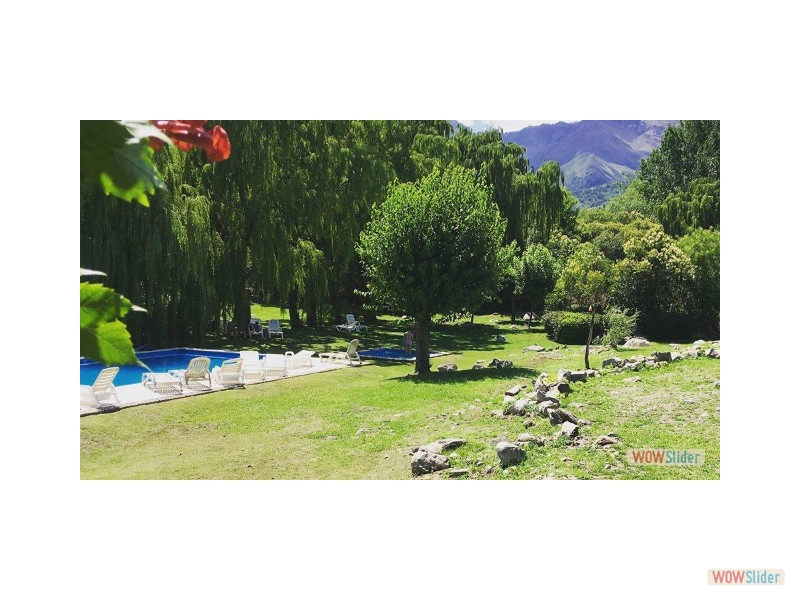
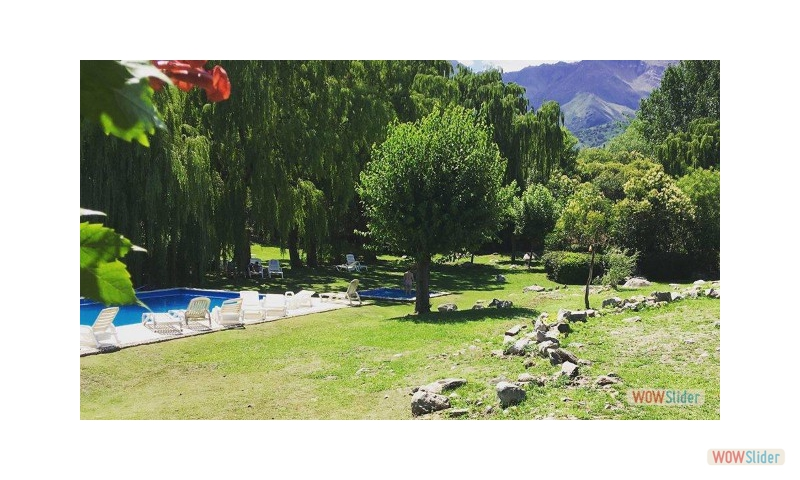
full page

diff --git a/index-howto.html b/index-howto.html
@@ -107,21 +107,21 @@
 <div id="wowslider-container1">
 <div class="ws_images"><ul>
 		<li><img src="data1/images/1.jpg" alt="1" title="1" id="wows1_0"/></li>
-		<li><img src="data1/images/2.jpg" alt="2" title="2" id="wows1_1"/></li>
-		<li><img src="data1/images/3.jpg" alt="3" title="3" id="wows1_2"/></li>
-		<li><img src="data1/images/4.jpg" alt="4" title="4" id="wows1_3"/></li>
-		<li><img src="data1/images/5.jpg" alt="5" title="5" id="wows1_4"/></li>
-		<li><a href="http://wowslider.net"><img src="data1/images/6.jpg" alt="bootstrap slider" title="6" id="wows1_5"/></a></li>
-		<li><img src="data1/images/7.jpg" alt="7" title="7" id="wows1_6"/></li>
+		<li><img src="data1/images/3.jpg" alt="3" title="3" id="wows1_1"/></li>
+		<li><img src="data1/images/4.jpg" alt="4" title="4" id="wows1_2"/></li>
+		<li><img src="data1/images/5.jpg" alt="5" title="5" id="wows1_3"/></li>
+		<li><img src="data1/images/6.jpg" alt="6" title="6" id="wows1_4"/></li>
+		<li><a href="http://wowslider.net"><img src="data1/images/7.jpg" alt="bootstrap carousel example" title="7" id="wows1_5"/></a></li>
+		<li><img src="data1/images/foto10__copy_5.jpg" alt="foto10 - Copy (5)" title="foto10 - Copy (5)" id="wows1_6"/></li>
 	</ul></div>
 	<div class="ws_bullets"><div>
 		<a href="#" title="1"><span>1</span></a>
-		<a href="#" title="2"><span>2</span></a>
-		<a href="#" title="3"><span>3</span></a>
-		<a href="#" title="4"><span>4</span></a>
-		<a href="#" title="5"><span>5</span></a>
-		<a href="#" title="6"><span>6</span></a>
-		<a href="#" title="7"><span>7</span></a>
+		<a href="#" title="3"><span>2</span></a>
+		<a href="#" title="4"><span>3</span></a>
+		<a href="#" title="5"><span>4</span></a>
+		<a href="#" title="6"><span>5</span></a>
+		<a href="#" title="7"><span>6</span></a>
+		<a href="#" title="foto10 - Copy (5)"><span>7</span></a>
 	</div></div><div class="ws_script" style="position:absolute;left:-99%"><a href="http://wowslider.net">slideshow javascript</a> by WOWSlider.com v8.8</div>
 <div class="ws_shadow"></div>
 </div>	
@@ -156,21 +156,21 @@
 &lt;div id=&quot;wowslider-container1&quot;&gt;
 &lt;div class=&quot;ws_images&quot;&gt;&lt;ul&gt;
 		&lt;li&gt;&lt;img src=&quot;data1/images/1.jpg&quot; alt=&quot;1&quot; title=&quot;1&quot; id=&quot;wows1_0&quot;/&gt;&lt;/li&gt;
-		&lt;li&gt;&lt;img src=&quot;data1/images/2.jpg&quot; alt=&quot;2&quot; title=&quot;2&quot; id=&quot;wows1_1&quot;/&gt;&lt;/li&gt;
-		&lt;li&gt;&lt;img src=&quot;data1/images/3.jpg&quot; alt=&quot;3&quot; title=&quot;3&quot; id=&quot;wows1_2&quot;/&gt;&lt;/li&gt;
-		&lt;li&gt;&lt;img src=&quot;data1/images/4.jpg&quot; alt=&quot;4&quot; title=&quot;4&quot; id=&quot;wows1_3&quot;/&gt;&lt;/li&gt;
-		&lt;li&gt;&lt;img src=&quot;data1/images/5.jpg&quot; alt=&quot;5&quot; title=&quot;5&quot; id=&quot;wows1_4&quot;/&gt;&lt;/li&gt;
-		&lt;li&gt;&lt;a href=&quot;http://wowslider.net&quot;&gt;&lt;img src=&quot;data1/images/6.jpg&quot; alt=&quot;bootstrap slider&quot; title=&quot;6&quot; id=&quot;wows1_5&quot;/&gt;&lt;/a&gt;&lt;/li&gt;
-		&lt;li&gt;&lt;img src=&quot;data1/images/7.jpg&quot; alt=&quot;7&quot; title=&quot;7&quot; id=&quot;wows1_6&quot;/&gt;&lt;/li&gt;
+		&lt;li&gt;&lt;img src=&quot;data1/images/3.jpg&quot; alt=&quot;3&quot; title=&quot;3&quot; id=&quot;wows1_1&quot;/&gt;&lt;/li&gt;
+		&lt;li&gt;&lt;img src=&quot;data1/images/4.jpg&quot; alt=&quot;4&quot; title=&quot;4&quot; id=&quot;wows1_2&quot;/&gt;&lt;/li&gt;
+		&lt;li&gt;&lt;img src=&quot;data1/images/5.jpg&quot; alt=&quot;5&quot; title=&quot;5&quot; id=&quot;wows1_3&quot;/&gt;&lt;/li&gt;
+		&lt;li&gt;&lt;img src=&quot;data1/images/6.jpg&quot; alt=&quot;6&quot; title=&quot;6&quot; id=&quot;wows1_4&quot;/&gt;&lt;/li&gt;
+		&lt;li&gt;&lt;a href=&quot;http://wowslider.net&quot;&gt;&lt;img src=&quot;data1/images/7.jpg&quot; alt=&quot;bootstrap carousel example&quot; title=&quot;7&quot; id=&quot;wows1_5&quot;/&gt;&lt;/a&gt;&lt;/li&gt;
+		&lt;li&gt;&lt;img src=&quot;data1/images/foto10__copy_5.jpg&quot; alt=&quot;foto10 - Copy (5)&quot; title=&quot;foto10 - Copy (5)&quot; id=&quot;wows1_6&quot;/&gt;&lt;/li&gt;
 	&lt;/ul&gt;&lt;/div&gt;
 	&lt;div class=&quot;ws_bullets&quot;&gt;&lt;div&gt;
 		&lt;a href=&quot;#&quot; title=&quot;1&quot;&gt;&lt;span&gt;1&lt;/span&gt;&lt;/a&gt;
-		&lt;a href=&quot;#&quot; title=&quot;2&quot;&gt;&lt;span&gt;2&lt;/span&gt;&lt;/a&gt;
-		&lt;a href=&quot;#&quot; title=&quot;3&quot;&gt;&lt;span&gt;3&lt;/span&gt;&lt;/a&gt;
-		&lt;a href=&quot;#&quot; title=&quot;4&quot;&gt;&lt;span&gt;4&lt;/span&gt;&lt;/a&gt;
-		&lt;a href=&quot;#&quot; title=&quot;5&quot;&gt;&lt;span&gt;5&lt;/span&gt;&lt;/a&gt;
-		&lt;a href=&quot;#&quot; title=&quot;6&quot;&gt;&lt;span&gt;6&lt;/span&gt;&lt;/a&gt;
-		&lt;a href=&quot;#&quot; title=&quot;7&quot;&gt;&lt;span&gt;7&lt;/span&gt;&lt;/a&gt;
+		&lt;a href=&quot;#&quot; title=&quot;3&quot;&gt;&lt;span&gt;2&lt;/span&gt;&lt;/a&gt;
+		&lt;a href=&quot;#&quot; title=&quot;4&quot;&gt;&lt;span&gt;3&lt;/span&gt;&lt;/a&gt;
+		&lt;a href=&quot;#&quot; title=&quot;5&quot;&gt;&lt;span&gt;4&lt;/span&gt;&lt;/a&gt;
+		&lt;a href=&quot;#&quot; title=&quot;6&quot;&gt;&lt;span&gt;5&lt;/span&gt;&lt;/a&gt;
+		&lt;a href=&quot;#&quot; title=&quot;7&quot;&gt;&lt;span&gt;6&lt;/span&gt;&lt;/a&gt;
+		&lt;a href=&quot;#&quot; title=&quot;foto10 - Copy (5)&quot;&gt;&lt;span&gt;7&lt;/span&gt;&lt;/a&gt;
 	&lt;/div&gt;&lt;/div&gt;&lt;div class=&quot;ws_script&quot; style=&quot;position:absolute;left:-99%&quot;&gt;&lt;a href=&quot;http://wowslider.net&quot;&gt;slideshow javascript&lt;/a&gt; by WOWSlider.com v8.8&lt;/div&gt;
 &lt;div class=&quot;ws_shadow&quot;&gt;&lt;/div&gt;
 &lt;/div&gt;	

diff --git a/index.html b/index.html
@@ -17,21 +17,21 @@
 	<div id="wowslider-container1">
 	<div class="ws_images"><ul>
 		<li><img src="data1/images/1.jpg" alt="1" title="1" id="wows1_0"/></li>
-		<li><img src="data1/images/2.jpg" alt="2" title="2" id="wows1_1"/></li>
-		<li><img src="data1/images/3.jpg" alt="3" title="3" id="wows1_2"/></li>
-		<li><img src="data1/images/4.jpg" alt="4" title="4" id="wows1_3"/></li>
-		<li><img src="data1/images/5.jpg" alt="5" title="5" id="wows1_4"/></li>
-		<li><a href="http://wowslider.net"><img src="data1/images/6.jpg" alt="bootstrap slider" title="6" id="wows1_5"/></a></li>
-		<li><img src="data1/images/7.jpg" alt="7" title="7" id="wows1_6"/></li>
+		<li><img src="data1/images/3.jpg" alt="3" title="3" id="wows1_1"/></li>
+		<li><img src="data1/images/4.jpg" alt="4" title="4" id="wows1_2"/></li>
+		<li><img src="data1/images/5.jpg" alt="5" title="5" id="wows1_3"/></li>
+		<li><img src="data1/images/6.jpg" alt="6" title="6" id="wows1_4"/></li>
+		<li><a href="http://wowslider.net"><img src="data1/images/7.jpg" alt="bootstrap carousel example" title="7" id="wows1_5"/></a></li>
+		<li><img src="data1/images/foto10__copy_5.jpg" alt="foto10 - Copy (5)" title="foto10 - Copy (5)" id="wows1_6"/></li>
 	</ul></div>
 	<div class="ws_bullets"><div>
 		<a href="#" title="1"><span>1</span></a>
-		<a href="#" title="2"><span>2</span></a>
-		<a href="#" title="3"><span>3</span></a>
-		<a href="#" title="4"><span>4</span></a>
-		<a href="#" title="5"><span>5</span></a>
-		<a href="#" title="6"><span>6</span></a>
-		<a href="#" title="7"><span>7</span></a>
+		<a href="#" title="3"><span>2</span></a>
+		<a href="#" title="4"><span>3</span></a>
+		<a href="#" title="5"><span>4</span></a>
+		<a href="#" title="6"><span>5</span></a>
+		<a href="#" title="7"><span>6</span></a>
+		<a href="#" title="foto10 - Copy (5)"><span>7</span></a>
 	</div></div><div class="ws_script" style="position:absolute;left:-99%"><a href="http://wowslider.net">slideshow javascript</a> by WOWSlider.com v8.8</div>
 	<div class="ws_shadow"></div>
 	</div>	

diff --git a/engine1/script.js b/engine1/script.js
@@ -18,4 +18,4 @@ function ws_blur(r,p,c){var h=jQuery;var o=h(this);var n=h("<div>").addClass("ws
 // Obfuscated by Javascript Obfuscator
 // http://javascript-source.com
 //***********************************************
-jQuery("#wowslider-container1").wowSlider({effect:"blur",prev:"",next:"",duration:13*100,delay:40*100,width:1024,height:768,autoPlay:true,autoPlayVideo:false,playPause:false,stopOnHover:false,loop:false,bullets:1,caption:false,captionEffect:"parallax",controls:true,controlsThumb:false,responsive:3,fullScreen:false,gestures:2,onBeforeStep:0,images:0});
+jQuery("#wowslider-container1").wowSlider({effect:"blur",prev:"",next:"",duration:13*100,delay:40*100,width:1024,height:614,autoPlay:true,autoPlayVideo:false,playPause:false,stopOnHover:false,loop:false,bullets:1,caption:false,captionEffect:"parallax",controls:true,controlsThumb:false,responsive:3,fullScreen:false,gestures:2,onBeforeStep:0,images:0});

diff --git a/index-iframe.html b/index-iframe.html
@@ -1,3 +1,3 @@
 <!-- Start WOWSlider.com -->
-<iframe src="index.html" style="width:1024px;height:768px;max-width:100%;overflow:hidden;border:none;padding:0;margin:0 auto;display:block;" marginheight="0" marginwidth="0"></iframe>
+<iframe src="index.html" style="width:1024px;height:614px;max-width:100%;overflow:hidden;border:none;padding:0;margin:0 auto;display:block;" marginheight="0" marginwidth="0"></iframe>
 <!-- End WOWSlider.com -->

diff --git a/engine1/style.css b/engine1/style.css
@@ -419,7 +419,7 @@
 	text-indent:0;
 	display:block;
 	bottom:15px;
-	left:-60px;
+	left:-75px;
 	visibility:hidden;
 	position:absolute;
     border: 5px solid #FFFFFF;
@@ -438,7 +438,7 @@
 	left:0;
 	overflow:hidden;
 	position:relative;
-	width:120px;
+	width:150px;
 	background-color:#FFFFFF;
 }
 #wowslider-container1  .ws_bullets .ws_bulframe{
